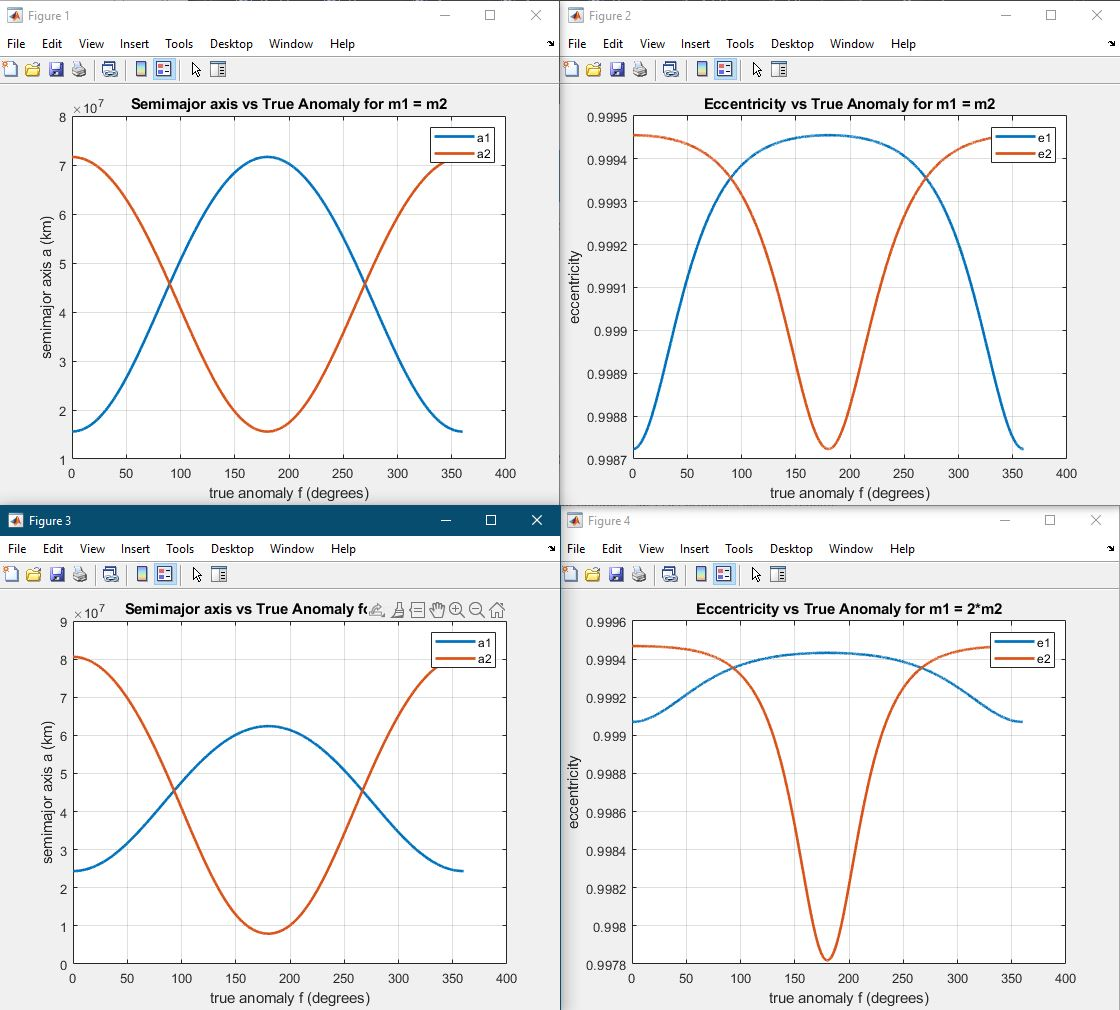
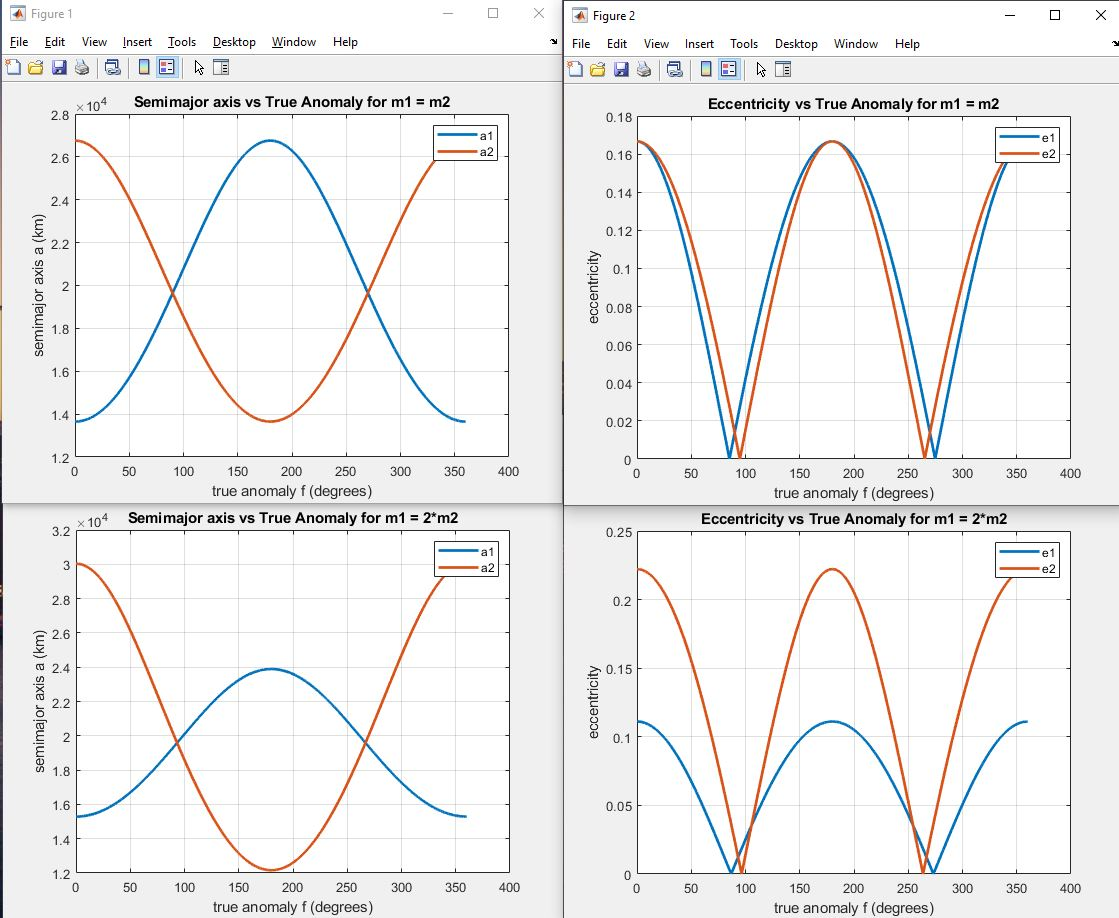
Fixed Problem 1

diff --git a/HW1/NL_HW1_Problem1.m b/HW1/NL_HW1_Problem1.m
@@ -7,28 +7,28 @@ clc; clear; close all;
 MU = 3.986 * (10^5); % km^3 / s^2
 R_E = 6371; % Radius of earth in km
 f = 0:0.1:360; % Iterates the true anomaly by 0.1
-V0 = sqrt(MU / R_E); % Constant speed value
+V0 = sqrt(MU / (3*R_E)); % Constant speed value
 
 %% Caclculations where m1 = m2
-r1 = sqrt((3*R_E*cosd(f)-0.5*R_E).^2 + (3*R_E*sind(f)).^2);
-r2 = sqrt((3*R_E*cosd(f)+0.5*R_E).^2 + (3*R_E*sind(f)).^2);
+r1 = sqrt((3*R_E*cosd(f)-(0.5*R_E)).^2 + (3*R_E*sind(f)).^2);
+r2 = sqrt((3*R_E*cosd(f)+(0.5*R_E)).^2 + (3*R_E*sind(f)).^2);
 
-a1 = MU*((0.5*V0^2) - (MU./r1)).^2;
-a2 = MU*((0.5*V0^2) - (MU./r2)).^2;
+a1 = -0.5*MU*((0.5*(V0^2)) - (MU./r1)).^(-1);
+a2 = -0.5*MU*((0.5*(V0^2)) - (MU./r2)).^(-1);
 
-e1 = sqrt(1 - (( (r1.^2).*(V0^2)) ./ (MU.*a1)) );
-e2 = sqrt(1 - (( (r2.^2).*(V0^2)) ./ (MU.*a2)) );
+e1 = sqrt(1 - ( (r1.^2) .* (V0^2) ./ (MU.*a1) ));
+e2 = sqrt(1 - ( (r2.^2) .* (V0^2) ./ (MU.*a2) ));
 
-%% Calculations where 2*m1 = m2
+%% Calculations where m1 = 2*m2
 
-r3 = sqrt((3*R_E*cosd(f)-(1/3)*R_E).^2 + (3*R_E*sind(f)).^2);
-r4 = sqrt((3*R_E*cosd(f)+(2/3)*R_E).^2 + (3*R_E*sind(f)).^2);
+r3 = sqrt((3*R_E*cosd(f)-((1/3)*R_E)).^2 + (3*R_E*sind(f)).^2);
+r4 = sqrt((3*R_E*cosd(f)+((2/3)*R_E)).^2 + (3*R_E*sind(f)).^2);
 
-a3 = MU*((0.5*V0^2) - (MU./r3)).^2;
-a4 = MU*((0.5*V0^2) - (MU./r4)).^2;
+a3 = -0.5*MU*((0.5*(V0^2)) - (MU./r3)).^(-1);
+a4 = -0.5*MU*((0.5*(V0^2)) - (MU./r4)).^(-1);
 
-e3 = sqrt(1 - (( (r3.^2).*(V0^2)) ./ (MU.*a3)) );
-e4 = sqrt(1 - (( (r4.^2).*(V0^2)) ./ (MU.*a4)) );
+e3 = sqrt(1 - ( (r3.^2) .* (V0^2) ./ (MU.*a3) ));
+e4 = sqrt(1 - ( (r4.^2) .* (V0^2) ./ (MU.*a4) ));
 
 %% Plots
 
